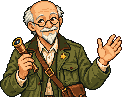
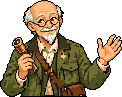
fix(monster-opening): put professor, introduced monster and dialogue window on the 2px dot grid; tidy bust to monster style (#2726)
Measured on the shipped player (480x320 and 960x640): professor 122x97 -> 244x194 and
starter monsters 64x64 -> 128x128 were already exact 2x, but four things sat off the
2px grid:
- bust top 15px (odd) -> 14px (grid-edge match y 0.1% -> 99.9%)
- introduced-monster box was 30%x40% (144x128, measured 2.25x) at 264,75.8 -> integer art
  box variables at 272,76
- idle bobs: steps(2) made a -1px half step for the monster, professor moved 1px -> 2px steps
- dialogue window: 5px double border (2/1/2), 94% width + padding overflowed the right edge
  -> 6px double, left 14px, 452px wide

Professor bust re-tidied toward the monster style with scripts/asset-gen/restyle-bust.py
(29 -> 23 colours, lone-pixel noise 13.4% -> 9.3%, 1px dark silhouette outline, same
122x97 size and grid, no new image generation). poke-vqa.capture.mjs gains VP/DSF and
records element positions and the narration window rect.

Tests added (CSS contract in test/emeraldProfessorBust.test.ts) but not run.

diff --git a/src/styles/runtime/playSurface.css b/src/styles/runtime/playSurface.css
@@ -333,21 +333,22 @@
   background:radial-gradient(ellipse 48% 62% at 50% 46%,#fffdee 0%,rgba(255,253,238,.75) 45%,rgba(255,253,238,0) 100%);
 }
 .cinematic-sequence[data-presentation="storybook"][data-monster-style="emerald"][data-portrait-art="bust"] .cinematic-image {
-  inset:15px auto auto calc(50% - 122px);width:244px;height:194px;object-fit:contain;object-position:center bottom;image-rendering:pixelated;
+  inset:14px auto auto calc(50% - 122px);width:244px;height:194px;object-fit:contain;object-position:center bottom;image-rendering:pixelated;
 }
 .cinematic-sequence[data-presentation="storybook"][data-monster-style="emerald"][data-portrait-art="bust"][data-showcase="monster"] .cinematic-image {left:14px;}
-.cinematic-sequence[data-monster-style="emerald"][data-portrait-art="bust"] .cinematic-creature {left:55%;top:24%;width:30%;height:40%;}
+/* 소개 몬스터: 상자는 정수 배율 변수(--art-box-*)가 정하고, 위치는 2px 격자의 정수 좌표다. 예전 55%·24% 는 264px·75.8px 소수 좌표라 도트가 격자에서 반 칸 어긋났다(시각 QA 2026-10-16). */
+.cinematic-sequence[data-monster-style="emerald"][data-portrait-art="bust"] .cinematic-creature {left:272px;top:76px;width:var(--art-box-width,128px);height:var(--art-box-height,128px);}
 .cinematic-sequence[data-monster-style="emerald"] .cinematic-creature {
   position:absolute;left:268px;top:72px;width:var(--art-box-width,128px);height:var(--art-box-height,128px);object-fit:contain;image-rendering:pixelated;z-index:1;
 }
 .cinematic-sequence[data-presentation="storybook"][data-monster-style="emerald"] .cinematic-narration {
-  top:auto;bottom:5%;left:3%;width:94%;min-height:25%;max-height:29%;padding:4px 14px 24px;
-  border:5px double #55615f;background:#fffef0;color:#303840;
+  top:auto;bottom:16px;left:14px;width:calc(100% - 28px - 40px);min-height:25%;max-height:29%;padding:4px 14px 24px;
+  border:6px double #55615f;background:#fffef0;color:#303840;
   font-family:"Galmuri9",monospace;font-size:18px;line-height:24px;
   box-shadow:inset 0 0 0 2px #baccc7;white-space:pre-wrap;text-align:left;
 }
 .cinematic-sequence[data-monster-style="emerald"] .cinematic-book-hint {
-  width:auto;right:calc(3% + 20px);bottom:calc(5% + 10px);font:18px/20px "Galmuri9",monospace;color:#445450;z-index:3;
+  width:auto;right:34px;bottom:26px;font:18px/20px "Galmuri9",monospace;color:#445450;z-index:3;
 }
 .player-layout.system-shell .rm-title-screen[data-monster-style="emerald"] {
   background-color: #0b5264;

diff --git a/src/styles/runtime/emeraldOpeningMotion.css b/src/styles/runtime/emeraldOpeningMotion.css
@@ -29,10 +29,12 @@
     z-index: 1; animation: emerald-professor-idle 4.8s steps(1, end) infinite;
   }
   .cinematic-sequence[data-presentation="storybook"][data-monster-style="emerald"][data-ink] .cinematic-creature {
-    z-index: 1; animation: emerald-creature-idle 3.2s steps(2, end) infinite;
+    z-index: 1; animation: emerald-creature-idle 3.2s steps(1, end) infinite;
   }
   .cinematic-sequence[data-presentation="storybook"][data-monster-style="emerald"][data-ink] .cinematic-narration { z-index: 2; }
-  @keyframes emerald-professor-idle { 0%, 75%, 100% { translate: 0 0; } 42%, 62% { translate: 0 -1px; } }
+  /* 2px = 논리 도트 1칸. 1px 오르내림은 도트 격자를 반 칸 어긋나게 한다. */
+  @keyframes emerald-professor-idle { 0%, 75%, 100% { translate: 0 0; } 42%, 62% { translate: 0 -2px; } }
+  /* 구간마다 steps(1): 2칸이면 -1px 중간 값이 생겨 몬스터 도트가 격자에서 반 칸 어긋난다. */
   @keyframes emerald-creature-idle { 0%, 70%, 100% { translate: 0 0; } 35%, 50% { translate: 0 -2px; } }
   @keyframes emerald-intro-light { from { rotate: -1deg; opacity: .55; } to { rotate: 2deg; opacity: .85; } }
   @keyframes emerald-intro-mote { 0%, 100% { translate: 0 0; opacity: .15; } 50% { translate: 5px -11px; opacity: .75; } }

diff --git a/test/emeraldProfessorBust.test.ts b/test/emeraldProfessorBust.test.ts
@@ -39,3 +39,22 @@ describe("emerald opening professor bust", () => {
     expect(existsSync("public/assets/emerald-monster/professor-bust.png")).toBe(true);
   });
 });
+
+describe("emerald opening pixel grid (CSS contract)", () => {
+  const css = readFileSync("src/styles/runtime/playSurface.css", "utf8");
+  const motion = readFileSync("src/styles/runtime/emeraldOpeningMotion.css", "utf8");
+  it("sizes the introduced monster from the integer art box and places it on whole even pixels", () => {
+    const rule = css.split("\n").find((line) => line.includes('[data-portrait-art="bust"] .cinematic-creature'));
+    expect(rule).toBeDefined();
+    expect(rule).toContain("width:var(--art-box-width,128px)");
+    expect(rule).toContain("height:var(--art-box-height,128px)");
+    expect(rule).toMatch(/left:272px;top:76px/u);
+    expect(rule).not.toMatch(/%/u);
+  });
+  it("keeps idle bobs on 2px steps and the dialogue window inside the stage", () => {
+    expect(motion).toContain("emerald-creature-idle 3.2s steps(1, end)");
+    expect(motion).toMatch(/emerald-professor-idle[^}]*-2px/u);
+    expect(css).toContain("width:calc(100% - 28px - 40px)");
+    expect(css).toContain("border:6px double #55615f");
+  });
+});

diff --git a/scripts/asset-gen/restyle-bust.py b/scripts/asset-gen/restyle-bust.py
@@ -1,0 +1,152 @@
+"""생성 도트 반신상을 몬스터 도트 규격(단색 면 · 1px 어두운 윤곽 · 적은 색 · 디더 없음)에 맞춰 다시 정리한다.
+pixelize-grid.py 가 만든 122×97 도트(격자 복원 완료)를 입력으로 받아 크기·격자를 그대로 두고 색·잡티·윤곽만 손본다. 새 이미지 생성 호출이 없다.
+사용: python3 restyle-bust.py in.png out.png --colors 24 [--tones 3] [--despeckle 2] [--outline flat|selective|none]
+  --colors   최종 색 수 상한(윤곽색 포함). 몬스터 도트는 13~19색이다.
+  --tones    색상(hue) 묶음마다 허용하는 명암 단계 수. 0 이면 제한하지 않는다(몬스터는 3~4단).
+  --despeckle  외톨이 점 정리 횟수. 같은 색 이웃이 없는 점·1~2칸짜리 얼룩을 이웃 최빈 색으로 흡수한다.
+  --outline  flat: 실루엣 가장자리 1px 을 한 가지 어두운 색으로 / selective: 자기 색을 어둡게 한 색 / none."""
+import argparse
+import numpy as np
+from PIL import Image
+from collections import Counter
+
+
+def to_oklab(rgb):
+    c = np.asarray(rgb, float) / 255.0
+    c = np.where(c <= 0.04045, c / 12.92, ((c + 0.055) / 1.055) ** 2.4)
+    l = 0.4122214708 * c[..., 0] + 0.5363325363 * c[..., 1] + 0.0514459929 * c[..., 2]
+    m = 0.2119034982 * c[..., 0] + 0.6806995451 * c[..., 1] + 0.1073969566 * c[..., 2]
+    s = 0.0883024619 * c[..., 0] + 0.2817188376 * c[..., 1] + 0.6299787005 * c[..., 2]
+    l, m, s = np.cbrt(l), np.cbrt(m), np.cbrt(s)
+    return np.stack([0.2104542553 * l + 0.7936177850 * m - 0.0040720468 * s,
+                     1.9779984951 * l - 2.4285922050 * m + 0.4505937099 * s,
+                     0.0259040371 * l + 0.7827717662 * m - 0.8086757660 * s], -1)
+
+
+def kmeans(pts, w, k, seed=7, iters=40):
+    rng = np.random.default_rng(seed)
+    cent = [pts[rng.choice(len(pts), p=w / w.sum())]]
+    for _ in range(1, k):
+        d = np.min([((pts - c) ** 2).sum(1) for c in cent], axis=0) * w
+        cent.append(pts[rng.choice(len(pts), p=d / d.sum())])
+    cent = np.array(cent)
+    for _ in range(iters):
+        lab = np.argmin(((pts[:, None] - cent[None]) ** 2).sum(-1), axis=1)
+        for i in range(k):
+            sel = lab == i
+            if sel.any():
+                cent[i] = (pts[sel] * w[sel, None]).sum(0) / w[sel].sum()
+    return cent
+
+
+def neighbours4(idx, y, x, H, W):
+    return [idx[y + dy, x + dx] for dy, dx in ((1, 0), (-1, 0), (0, 1), (0, -1)) if 0 <= y + dy < H and 0 <= x + dx < W]
+
+
+def main():
+    ap = argparse.ArgumentParser()
+    ap.add_argument('src'); ap.add_argument('dst')
+    ap.add_argument('--colors', type=int, default=24)
+    ap.add_argument('--tones', type=int, default=0)
+    ap.add_argument('--despeckle', type=int, default=1)
+    ap.add_argument('--outline', default='flat', choices=['flat', 'selective', 'none'])
+    ap.add_argument('--outline-color', default='')
+    ap.add_argument('--rare', type=float, default=1.0, help='색 묶기 가중치 = 화소 수의 rare 제곱. 1 이면 화소 수 그대로, 0.5 면 드문 색(눈·안경테·별 핀)을 더 지킨다')
+    ap.add_argument('--protect', default='', help='x0,y0,x1,y1[;x0,y0,x1,y1...] — 이 사각형 안은 외톨이 점 정리를 건너뛴다(얼굴 눈·안경·수염)')
+    a = ap.parse_args()
+
+    im = np.asarray(Image.open(a.src).convert('RGBA'))
+    H, W = im.shape[:2]
+    op = im[..., 3] > 128
+    rgb = im[..., :3]
+
+    # 1) 팔레트: 색을 Oklab 에서 k 개로 묶는다(디더 없음). 윤곽색 한 칸을 따로 둔다.
+    k = a.colors - (1 if a.outline != 'none' else 0)
+    cols = Counter(map(tuple, rgb[op]))
+    keys = list(cols)
+    pts = to_oklab(np.array(keys, float))
+    w = np.array([cols[c] for c in keys], float) ** a.rare
+    cent = kmeans(pts, w, k)
+    lab_all = to_oklab(rgb.astype(float))
+
+    # 색상 묶음마다 명암 단계 제한: 같은 hue 안에서 L 을 tones 단으로 다시 묶는다.
+    if a.tones > 0:
+        hue = np.arctan2(cent[:, 2], cent[:, 1])
+        chroma = np.hypot(cent[:, 1], cent[:, 2])
+        order = np.argsort(hue)
+        groups, cur = [], [order[0]]
+        for i in order[1:]:
+            if abs(hue[i] - hue[cur[-1]]) < 0.35 and chroma[i] > 0.03 and chroma[cur[0]] > 0.03: cur.append(i)
+            else: groups.append(cur); cur = [i]
+        groups.append(cur)
+        for g in groups:
+            if len(g) > a.tones:
+                sub = cent[g]
+                sw = np.array([w[np.argmin(((pts - c) ** 2).sum(1))] for c in sub])
+                new = kmeans(sub, sw, a.tones, seed=3)
+                for i in g:
+                    cent[i] = new[np.argmin(((new - cent[i]) ** 2).sum(1))]
+        cent = np.unique(np.round(cent, 5), axis=0)
+
+    flat = lab_all.reshape(-1, 3)
+    idx = np.argmin(((flat[:, None] - cent[None]) ** 2).sum(-1), axis=1).reshape(H, W)
+    idx[~op] = -1
+
+    # 2) 외톨이 점·얼룩 정리
+    boxes = [[int(v) for v in b.split(',')] for b in a.protect.split(';')] if a.protect else []
+    for _ in range(a.despeckle):
+        out = idx.copy()
+        for y in range(H):
+            for x in range(W):
+                if idx[y, x] < 0: continue
+                if any(b[0] <= x <= b[2] and b[1] <= y <= b[3] for b in boxes): continue
+                nb = [n for n in neighbours4(idx, y, x, H, W) if n >= 0]
+                same = sum(1 for n in nb if n == idx[y, x])
+                if same == 0 and len(nb) >= 3:
+                    out[y, x] = Counter(nb).most_common(1)[0][0]
+                elif same == 1 and len(nb) >= 3:  # 2칸짜리 얼룩: 이웃 최빈 색이 압도적이면 흡수
+                    top, n = Counter(n for n in nb if n != idx[y, x]).most_common(1)[0] if any(n != idx[y, x] for n in nb) else (idx[y, x], 0)
+                    if n >= 2 and np.linalg.norm(cent[idx[y, x]] - cent[top]) < 0.12: out[y, x] = top
+        idx = out
+
+    # 3) 팔레트 → RGB
+    def to_rgb(lab):
+        l_ = lab[..., 0] + 0.3963377774 * lab[..., 1] + 0.2158037573 * lab[..., 2]
+        m_ = lab[..., 0] - 0.1055613458 * lab[..., 1] - 0.0638541728 * lab[..., 2]
+        s_ = lab[..., 0] - 0.0894841775 * lab[..., 1] - 1.2914855480 * lab[..., 2]
+        l, m, s = l_ ** 3, m_ ** 3, s_ ** 3
+        r = 4.0767416621 * l - 3.3077115913 * m + 0.2309699292 * s
+        g = -1.2684380046 * l + 2.6097574011 * m - 0.3413193965 * s
+        b = -0.0041960863 * l - 0.7034186147 * m + 1.7076147010 * s
+        c = np.stack([r, g, b], -1).clip(0, 1)
+        c = np.where(c <= 0.0031308, 12.92 * c, 1.055 * c ** (1 / 2.4) - 0.055)
+        return (c * 255).round().astype(np.uint8)
+
+    pal = to_rgb(cent)
+    out = np.zeros((H, W, 4), np.uint8)
+    m = idx >= 0
+    out[m, :3] = pal[idx[m]]
+    out[m, 3] = 255
+
+    # 4) 1px 어두운 윤곽: 실루엣 가장자리 안쪽 한 줄(크기 유지)
+    if a.outline != 'none':
+        pad = np.pad(~m, 1, constant_values=True)
+        ring = m & (pad[:-2, 1:-1] | pad[2:, 1:-1] | pad[1:-1, :-2] | pad[1:-1, 2:])
+        if a.outline_color:
+            oc = np.array([int(a.outline_color[i:i + 2], 16) for i in (1, 3, 5)], np.uint8)
+        else:
+            dark = pal[np.argmin(cent[:, 0])]
+            oc = np.minimum(dark, [26, 22, 20]).astype(np.uint8)
+        if a.outline == 'flat':
+            out[ring, :3] = oc
+        else:  # selective: 자기 색 L 을 0.45 배로 낮춘 색 → 가장 가까운 어두운 팔레트 색
+            for y, x in zip(*np.nonzero(ring)):
+                c = cent[idx[y, x]].copy(); c[0] *= 0.45
+                out[y, x, :3] = to_rgb(c[None])[0]
+    Image.fromarray(out, 'RGBA').save(a.dst)
+    n = len(Counter(map(tuple, out[m][:, :3])))
+    print(f'{a.dst}: {W}x{H} colors={n}')
+
+
+if __name__ == '__main__':
+    main()

diff --git a/openwiki/emerald-monster-production.md b/openwiki/emerald-monster-production.md
@@ -50,6 +50,18 @@ and `playSurface.css` drops the pedestal oval for that case (a soft light behind
 bust, the bust rises from behind the dialogue box). Candidate review sheet:
 `~/claude-viz/poke-professor-pick-1.html` (supervisor picked C1, 2026-10-16).
 
+**Opening pixel grid (2026-10-16 scale QA).** On the 480x320 stage one logical dot = 2 screen px
+for the professor (122x97 -> 244x194), the starter monsters (64x64 canvas -> 128x128) and the
+Galmuri9 18px text. Everything must sit on that 2px grid: the bust at left 118/14, top 14; the
+introduced monster at left 272, top 76 with its box from `--art-box-width/height`
+(`bindIntegerArtScale`, not a % box); idle bobs are 2px (`steps(1, end)` per segment, `steps(2)`
+gave a -1px half step); the dialogue window uses `left:14px`, `border:6px double` and
+`width:calc(100% - 68px)` (the old 94% + padding overflowed the right edge). `restyle-bust.py`
+re-tidies the bust to the monster style (<=26 colours, no lone-pixel dither, 1px dark outline)
+without changing size or grid. Measure with
+`GRID=1 [VP=960x640] node scripts/qa/runtime/poke-vqa.capture.mjs <campaign.json> <out> opening`
+(`report.json` metrics now include element positions and the narration window rect).
+
 ## Original title key art
 
 `configureEmeraldMonsterOpening` also applies `configureEmeraldMonsterTitle`,
